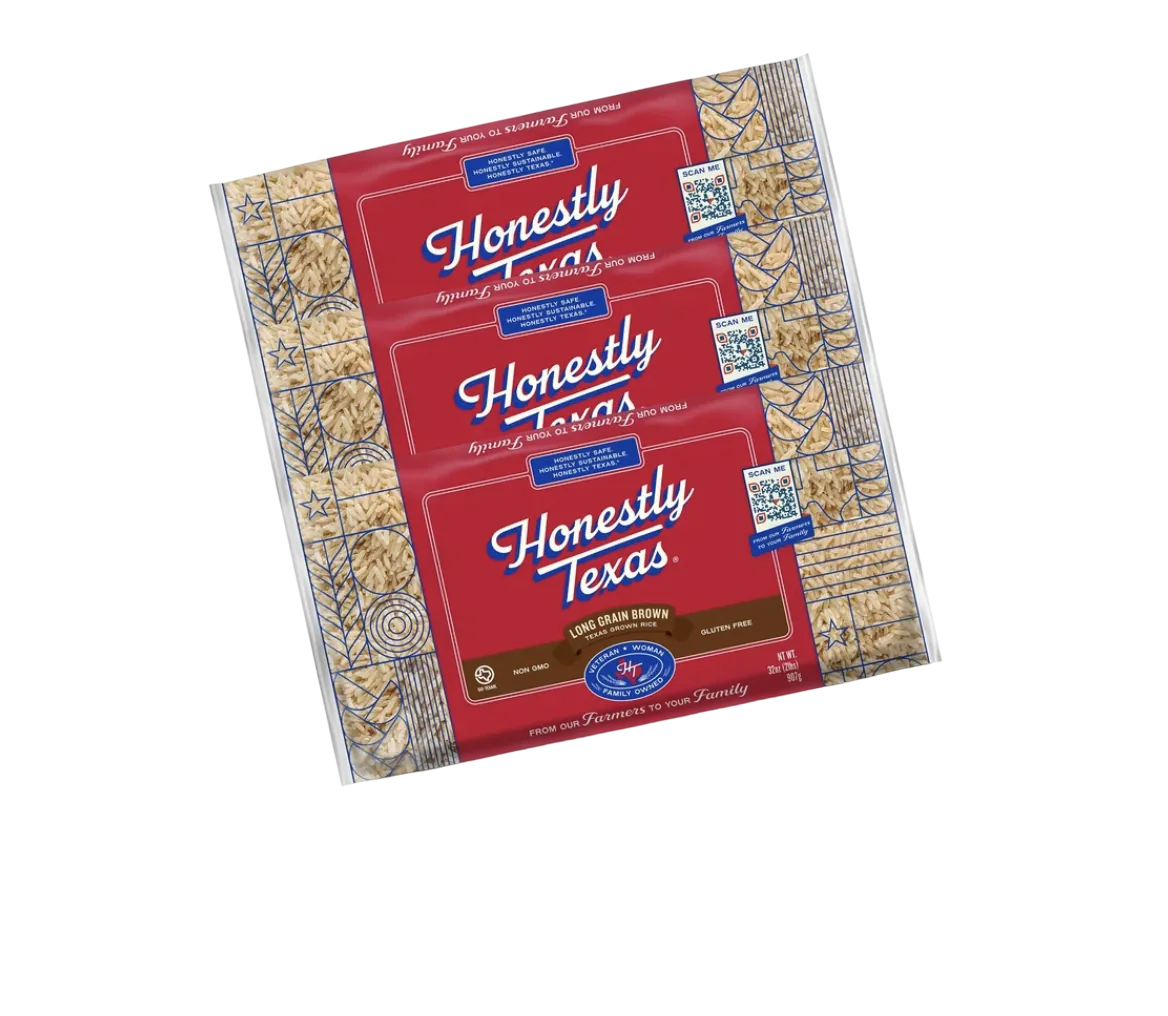
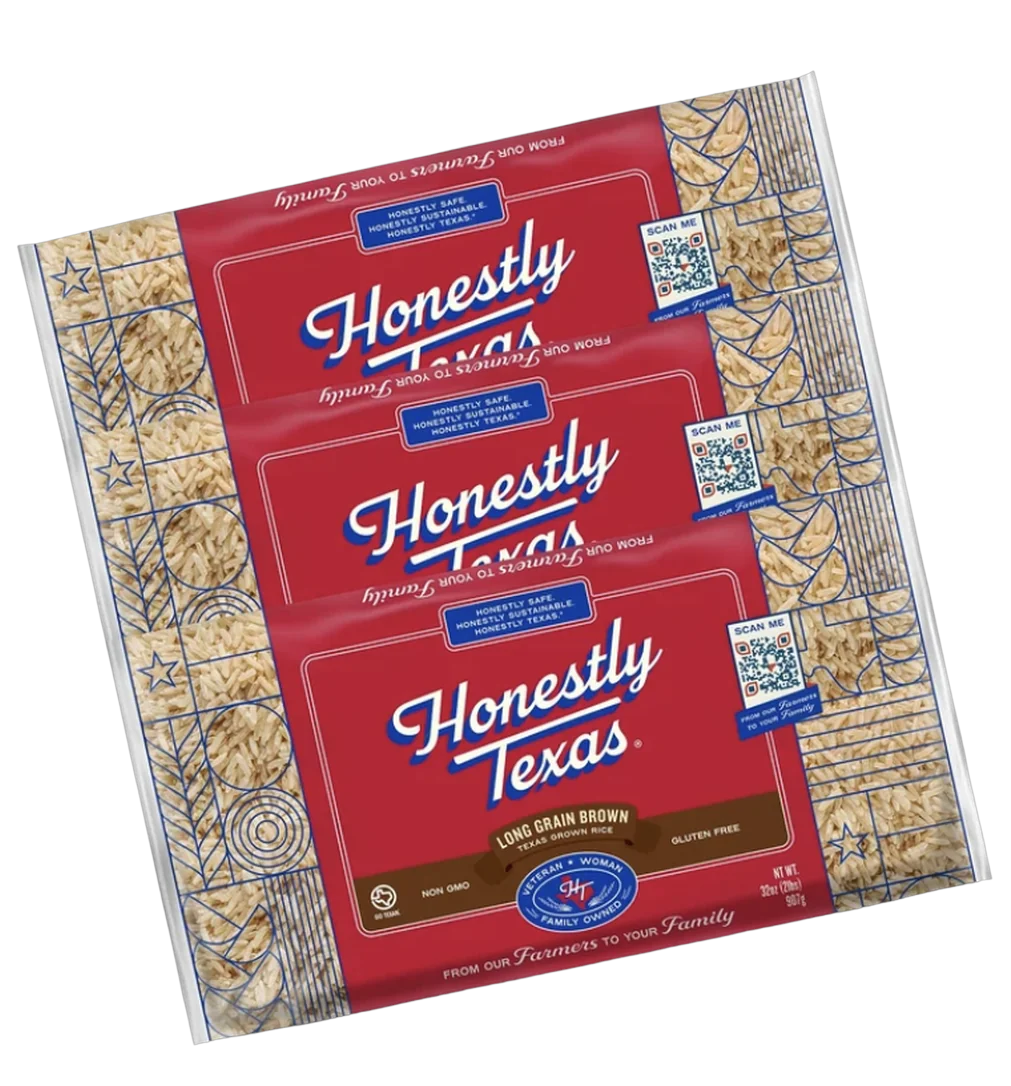
Match Figma crops for multipacks, farmers, hero

diff --git a/assets/theme.css b/assets/theme.css
@@ -97,7 +97,7 @@ body.is-locked { overflow: hidden; }
 
 /* ---------- Home: hero ---------- */
 .o1-hero { height: calc(974 * var(--u)); background: #3a5b8f; }
-.o1-hero__bg { position: absolute; inset: 0; width: 100%; height: 100%; object-fit: cover; object-position: 57% 0; max-width: none; }
+.o1-hero__bg { position: absolute; left: calc(50% - calc(1039 * var(--u))); top: 0; width: calc(1800 * var(--u)); height: calc(1013 * var(--u)); object-fit: cover; max-width: none; }
 .o1-hero__box1 { left: calc(249 * var(--u)); top: calc(426 * var(--u)); width: calc(953 * var(--u)); height: calc(117 * var(--u)); border-radius: calc(14 * var(--u)); background: rgba(193, 2, 48, 0.69); }
 .o1-hero__box2 { left: calc(451.6 * var(--u)); top: calc(543 * var(--u)); width: calc(550.2 * var(--u)); height: calc(105.6 * var(--u)); border-radius: 0 0 calc(14 * var(--u)) calc(14 * var(--u)); background: rgba(193, 2, 48, 0.69); }
 .o1-hero__headline { left: calc(286 * var(--u)); top: calc(441.4 * var(--u)); width: calc(868.5 * var(--u)); height: calc(179 * var(--u)); }
@@ -132,18 +132,18 @@ body.is-locked { overflow: hidden; }
 /* multis (section top 2564) */
 .o1-products--multis .o1-prod { top: calc(231 * var(--u)); height: calc(400 * var(--u)); }
 .o1-products--multis .o1-prod:nth-of-type(1) { left: calc(111 * var(--u)); width: calc(323 * var(--u)); }
-.o1-products--multis .o1-prod:nth-of-type(1) img { left: 0; top: calc(60 * var(--u)); width: calc(323 * var(--u)); height: calc(354 * var(--u)); object-fit: contain; }
+.o1-products--multis .o1-prod:nth-of-type(1) img { left: 0; top: calc(60 * var(--u)); width: calc(323 * var(--u)); height: calc(354 * var(--u)); object-fit: fill; }
 .o1-products--multis .o1-prod:nth-of-type(1) .o1-prod__dot { left: calc(191 * var(--u)); top: 0; }
 .o1-products--multis .o1-prod:nth-of-type(2) { left: calc(526 * var(--u)); width: calc(416 * var(--u)); }
-.o1-products--multis .o1-prod:nth-of-type(2) img { left: 0; top: calc(28 * var(--u)); width: calc(416 * var(--u)); height: calc(362 * var(--u)); object-fit: contain; }
+.o1-products--multis .o1-prod:nth-of-type(2) img { left: 0; top: calc(28 * var(--u)); width: calc(416 * var(--u)); height: calc(362 * var(--u)); object-fit: cover; }
 .o1-products--multis .o1-prod:nth-of-type(2) .o1-prod__dot { left: calc(267 * var(--u)); top: 0; }
 .o1-products--multis .o1-prod:nth-of-type(3) { left: calc(995 * var(--u)); width: calc(337 * var(--u)); }
-.o1-products--multis .o1-prod:nth-of-type(3) img { left: 0; top: calc(28 * var(--u)); width: calc(337 * var(--u)); height: calc(362 * var(--u)); object-fit: contain; }
+.o1-products--multis .o1-prod:nth-of-type(3) img { left: 0; top: calc(28 * var(--u)); width: calc(337 * var(--u)); height: calc(362 * var(--u)); object-fit: fill; }
 .o1-products--multis .o1-prod:nth-of-type(3) .o1-prod__dot { left: calc(169 * var(--u)); top: 0; }
 .o1-products__star { left: 0; top: calc(599 * var(--u)); width: calc(259 * var(--u)); height: calc(411 * var(--u)); z-index: 3; pointer-events: none; }
 
 /* ---------- Home: values (red stars) ---------- */
-.o1-values { height: calc(640 * var(--u)); background: var(--red); }
+.o1-values { height: calc(629 * var(--u)); background: var(--red); }
 .o1-values__stars { position: absolute; inset: 0; background-size: calc(640 * var(--u)) calc(640 * var(--u)); background-repeat: repeat; opacity: 0.3; }
 .o1-card { position: absolute; top: calc(70 * var(--u)); width: calc(390 * var(--u)); height: calc(435 * var(--u)); border-radius: calc(31 * var(--u)); background: var(--pink); overflow: hidden; }
 .o1-card:nth-of-type(1) { left: calc(102 * var(--u)); }
@@ -157,7 +157,7 @@ body.is-locked { overflow: hidden; }
 
 /* ---------- Home: dinner / recipes ---------- */
 .o1-recipes { height: calc(900 * var(--u)); background: var(--wheat); }
-.o1-recipes .o1-title { top: calc(50 * var(--u)); line-height: calc(74 * var(--u)); left: calc(439 * var(--u)); right: auto; width: calc(562 * var(--u)); }
+.o1-recipes .o1-title { top: calc(50 * var(--u)); line-height: calc(74 * var(--u)); white-space: nowrap; }
 .o1-recipe { position: absolute; top: calc(242.75 * var(--u)); width: calc(390 * var(--u)); height: calc(353.25 * var(--u)); display: block; text-decoration: none; }
 .o1-recipe:nth-of-type(1) { left: calc(87 * var(--u)); }
 .o1-recipe:nth-of-type(2) { left: calc(525.5 * var(--u)); top: calc(243.75 * var(--u)); }
@@ -175,7 +175,7 @@ body.is-locked { overflow: hidden; }
 .o1-farmers { height: calc(891 * var(--u)); background: #c58f5c; }
 .o1-farmers__bg { position: absolute; inset: 0; width: 100%; height: 100%; object-fit: cover; max-width: none; }
 .o1-farmers .o1-title { top: calc(56 * var(--u)); line-height: calc(74 * var(--u)); color: var(--cream); }
-.o1-farmers__photos { left: 0; top: calc(229 * var(--u)); width: calc(1440 * var(--u)); height: calc(589 * var(--u)); }
+.o1-farmers__photos { left: calc(-86 * var(--u)); top: calc(229 * var(--u)); width: calc(1613 * var(--u)); height: calc(589 * var(--u)); max-width: none; }
 
 /* ---------- Home: feature (red) ---------- */
 .o1-feature { height: calc(687 * var(--u)); background: var(--red); }
@@ -270,7 +270,7 @@ body.is-locked { overflow: hidden; }
 .o1-pdp__crumbs a:hover { text-decoration: underline; }
 .o1-pdp__main { position: absolute; left: calc(70 * var(--u)); top: calc(346 * var(--u)); width: calc(680 * var(--u)); height: calc(720 * var(--u)); border-radius: calc(12 * var(--u)); background: var(--card, var(--yellow)); overflow: hidden; }
 .o1-pdp__main img { position: absolute; left: calc(42 * var(--u)); top: calc(158 * var(--u)); width: calc(605 * var(--u)); height: calc(395 * var(--u)); object-fit: contain; mix-blend-mode: multiply; }
-.o1-pdp__main img.is-photo { inset: 0; width: 100%; height: 100%; object-fit: cover; mix-blend-mode: normal; }
+
 .o1-pdp__thumbs { position: absolute; left: calc(70 * var(--u)); top: calc(1091 * var(--u)); width: calc(680 * var(--u)); display: flex; gap: calc(19 * var(--u)); list-style: none; margin: 0; padding: 0; }
 .o1-pdp__thumb { width: calc(211 * var(--u)); height: calc(175 * var(--u)); border-radius: calc(6 * var(--u)); border: 0; padding: calc(16 * var(--u)) calc(18 * var(--u)); cursor: pointer; background: var(--pink); flex: none; outline-offset: 2px; }
 .o1-pdp__thumbs li:nth-child(3n+2) .o1-pdp__thumb { background: var(--wheat); padding: calc(11 * var(--u)) calc(11 * var(--u)); }
@@ -320,7 +320,7 @@ body.is-locked { overflow: hidden; }
 .o1-dinner__img img { width: 100%; height: 100%; object-fit: cover; border-radius: calc(13 * var(--u)); }
 
 /* ---------- Our story ---------- */
-.o1-story-hero { height: calc(1058 * var(--u)); background: var(--story-blue); }
+.o1-story-hero { height: calc(1058 * var(--u)); background: linear-gradient(var(--cream) 0 calc(145 * var(--u)), var(--story-blue) calc(145 * var(--u))); }
 .o1-story-hero__stars { position: absolute; top: calc(139 * var(--u)); height: calc(918 * var(--u)); width: calc(918 * var(--u)); background-size: calc(918 * var(--u)) calc(918 * var(--u)); opacity: .1; }
 .o1-story-hero__stars--1 { left: calc(-231 * var(--u)); }
 .o1-story-hero__stars--2 { left: calc(687 * var(--u)); }
@@ -343,8 +343,9 @@ body.is-locked { overflow: hidden; }
 .o1-person__cap { position: absolute; left: 0; right: 0; bottom: 0; padding: calc(12 * var(--u)) calc(16 * var(--u)); background: linear-gradient(transparent, rgba(0,0,0,.6)); color: #fff; font-family: var(--font-inter); font-weight: 700; font-size: calc(16 * var(--u)); }
 .o1-land { height: calc(776 * var(--u)); background: var(--red); }
 .o1-land__eyebrow { left: calc(93 * var(--u)); top: calc(1 * var(--u)); font-family: var(--font-inter); font-weight: 700; font-size: calc(18 * var(--u)); color: var(--red); text-transform: uppercase; }
-.o1-land__title { left: calc(78 * var(--u)); top: calc(112 * var(--u)); width: calc(602 * var(--u)); font-size: calc(calc(58 * var(--u)) * var(--hh)); line-height: 1.21; color: #f9fae9; }
-.o1-land__text { left: calc(78 * var(--u)); top: calc(205 * var(--u)); width: calc(547 * var(--u)); font-family: var(--font-inter); font-size: calc(23 * var(--u)); line-height: 1.21; color: #f9fae9; }
+.o1-land__copy { left: calc(78 * var(--u)); top: calc(112 * var(--u)); width: calc(560 * var(--u)); }
+.o1-land__title { font-size: calc(calc(58 * var(--u)) * var(--hh)); line-height: 1.21; color: #f9fae9; white-space: nowrap; }
+.o1-land__text { margin-top: calc(23 * var(--u)); width: calc(547 * var(--u)); font-family: var(--font-inter); font-size: calc(23 * var(--u)); line-height: 1.21; color: #f9fae9; }
 .o1-land__text p + p { margin-top: 1.21em; }
 .o1-land__img { left: calc(712 * var(--u)); top: calc(70 * var(--u)); width: calc(645 * var(--u)); height: calc(600 * var(--u)); border-radius: calc(19 * var(--u)); overflow: hidden; }
 .o1-land__img img { width: 100%; height: 100%; object-fit: cover; }
@@ -460,7 +461,7 @@ body.is-locked { overflow: hidden; }
 
   .o1-hero { height: calc(720 * var(--u)) !important; }
   .o1-hero .o1__canvas { height: 100%; padding: 0; }
-  .o1-hero__bg { object-position: 40% 0; }
+  .o1-hero__bg { left: 0; width: 100%; height: 100%; object-position: 30% 0; }
   .o1-hero .o1__abs { position: absolute; }
   .o1-hero__box1 { left: calc(16 * var(--u)) !important; top: calc(300 * var(--u)) !important; width: calc(358 * var(--u)) !important; height: calc(56 * var(--u)) !important; border-radius: calc(8 * var(--u)); }
   .o1-hero__box2 { left: calc(70 * var(--u)) !important; top: calc(356 * var(--u)) !important; width: calc(250 * var(--u)) !important; height: calc(50 * var(--u)) !important; border-radius: 0 0 calc(8 * var(--u)) calc(8 * var(--u)); }
@@ -493,7 +494,8 @@ body.is-locked { overflow: hidden; }
 
   .o1-farmers { padding: calc(44 * var(--u)) 0 calc(30 * var(--u)); }
   .o1-farmers .o1-title { top: auto; }
-  .o1-farmers__photos { width: 100% !important; margin-top: calc(20 * var(--u)); }
+  .o1-farmers__photos { width: 130% !important; margin: calc(20 * var(--u)) 0 0 -15% !important; }
+  .o1-recipes .o1-title { white-space: normal; }
 
   .o1-feature { padding: calc(30 * var(--u)) calc(20 * var(--u)) calc(44 * var(--u)); }
   .o1-feature .o1__canvas { padding: 0; display: flex; flex-direction: column; gap: calc(22 * var(--u)); }
@@ -587,7 +589,10 @@ body.is-locked { overflow: hidden; }
   .o1-land { padding: calc(44 * var(--u)) calc(20 * var(--u)); }
   .o1-land .o1__canvas { padding: 0; display: flex; flex-direction: column; gap: calc(16 * var(--u)); }
   .o1-land__eyebrow { display: none; }
-  .o1-land__title { font-size: calc(calc(32 * var(--u)) * var(--hh)); }
+  .o1-land__title { font-size: calc(calc(32 * var(--u)) * var(--hh)); white-space: normal; }
+  .o1-land__copy { width: auto !important; }
+  .o1-land__text { width: auto; }
+  .o1-story-hero { background: var(--story-blue); }
   .o1-land__text { font-size: calc(17 * var(--u)); }
   .o1-land__img { order: -1; width: 100% !important; height: calc(260 * var(--u)) !important; }
 
